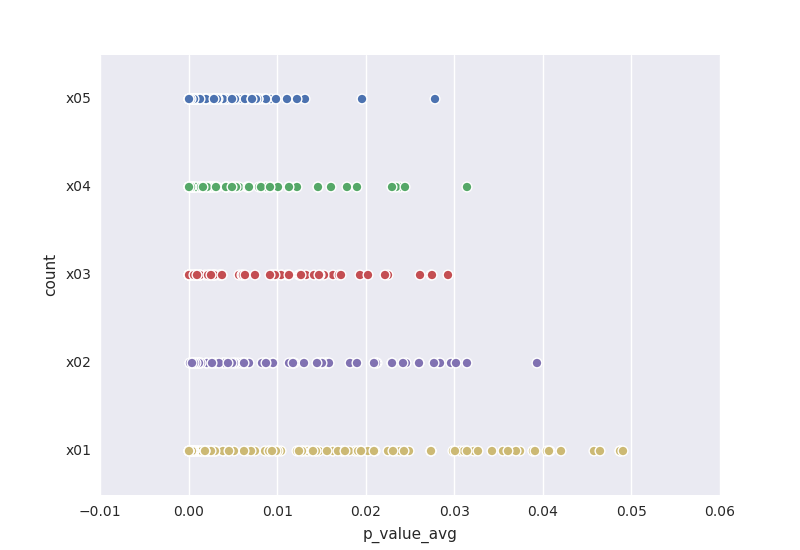
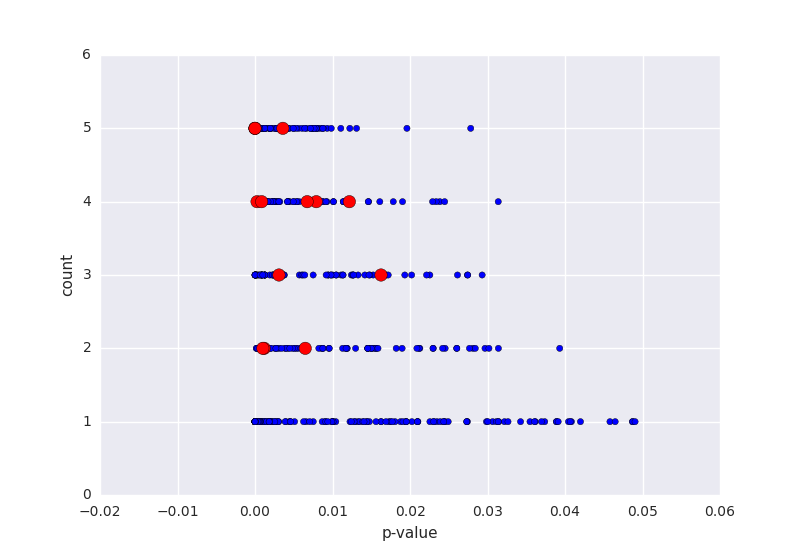
added coloring

diff --git a/scripts/12_create_stripplot.py b/scripts/12_create_stripplot.py
@@ -26,13 +26,23 @@ for protein_pair in protein_pairs:
                 p_values[ID].append(float(p_value))
                 counts[ID] += 1
 
+def is_ER(ID):
+    label = labels[ID]
+    if label == 'ERAD pathway':
+        return False
+    return 'ER' in label or 'endoplasmic reticulum' in label.lower()
+
 p_value_averages = p_values
 for ID in p_values:
     p_value_averages[ID] = np.mean(p_values[ID])
+IDs = sorted(sorted(labels.keys()), key=is_ER)
 
-IDs = sorted(labels.keys())
-data = pd.DataFrame.from_records(map(lambda ID: (p_value_averages[ID], 'x' + str(counts[ID]).zfill(2)), IDs),
-                                 columns=('p_value_avg', 'count'))
+y = np.array(map(lambda x: counts[x], IDs))
+x = np.array(map(lambda x: p_value_averages[x], IDs))
+colors = map(lambda x: 'r' if is_ER(x) else 'b', IDs)
+areas = map(lambda x: 80 if is_ER(x) else 20, IDs)
 
-sns.stripplot(x='p_value_avg', y='count', data=data.sort('count', ascending=False))
+plt.scatter(x, y, c=colors, s=areas)
+plt.gca().set_xlabel("p-value")
+plt.gca().set_ylabel("count")
 plt.savefig('stripplot.png')
